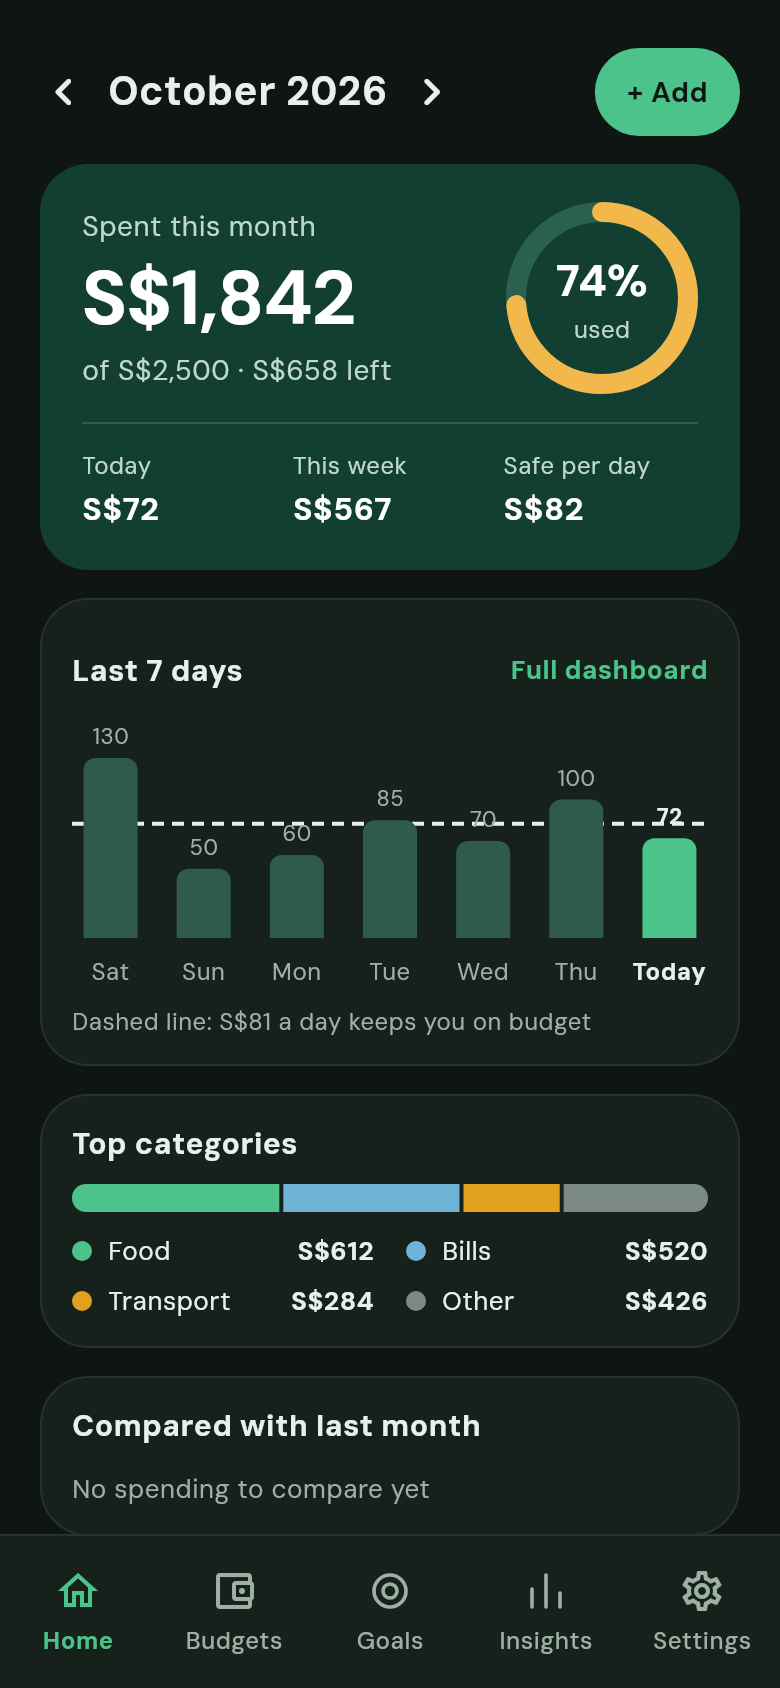
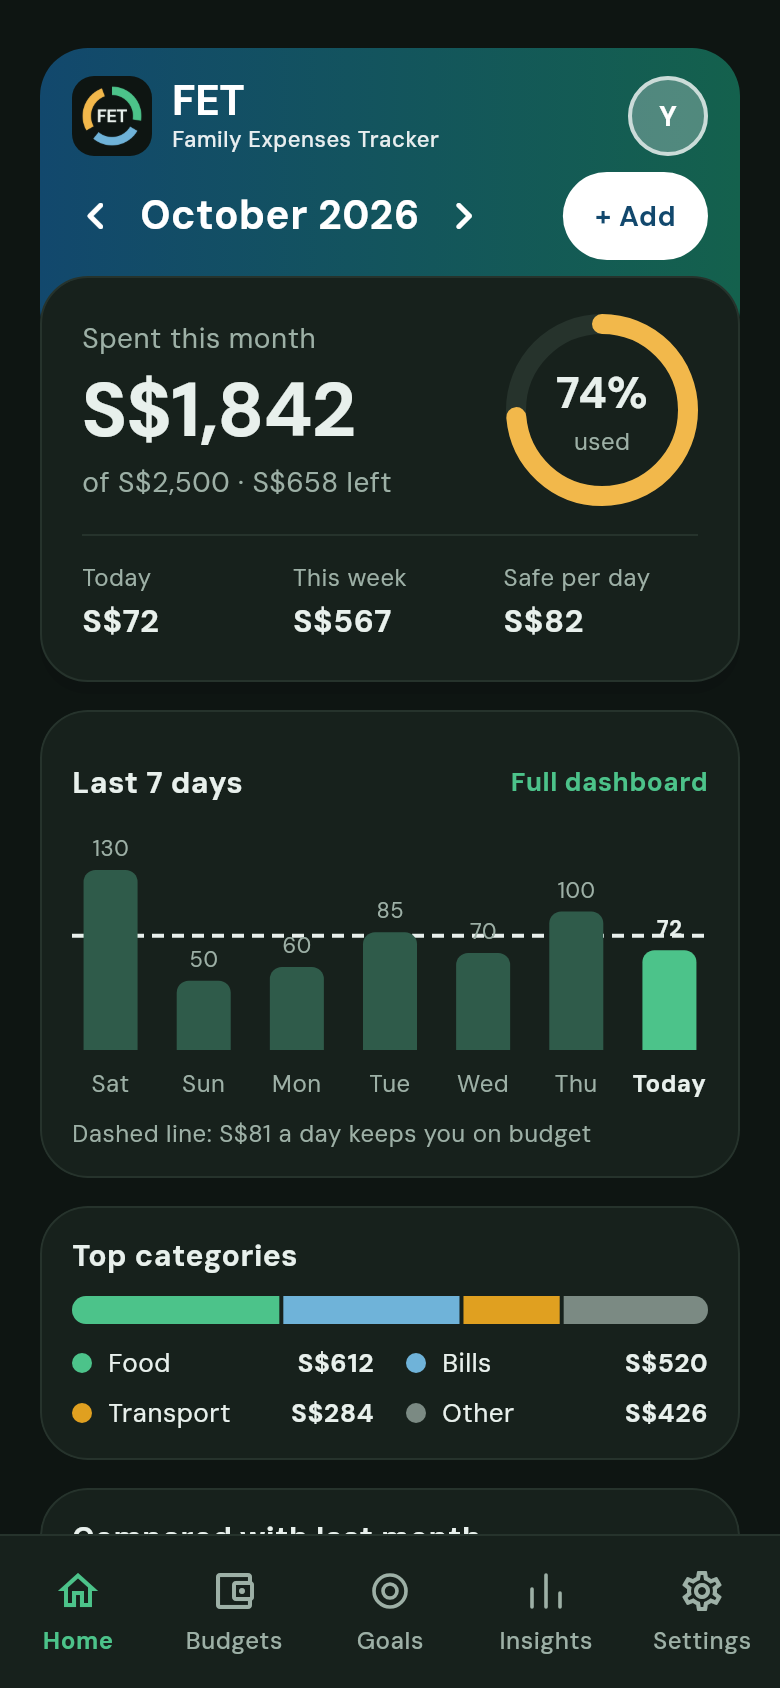
Gradient Home header is the default, with the overview card overlapping the band
Claude-Session: https://claude.ai/code/session_017RLUmD1WxyVaECNigSd7p4

diff --git a/lib/features/home/widgets/gradient_home_header.dart b/lib/features/home/widgets/gradient_home_header.dart
@@ -13,6 +13,9 @@ import '../../../core/theme/header_gradient.dart';
 import '../../family/member_providers.dart';
 import 'home_header.dart';
 
+/// How far the overview card reaches up into the gradient band.
+const double kHeaderOverlap = 40;
+
 /// The Home header with a gradient: the logo and name on the left, the signed-in person on the
 /// right, and the month switch and Add button beneath, all on the theme's gradient.
 class GradientHomeHeader extends ConsumerWidget {
@@ -60,7 +63,7 @@ class GradientHomeHeader extends ConsumerWidget {
       label: '$kAppName, $name',
       child: Container(
         key: const ValueKey('gradient-header'),
-        padding: const EdgeInsets.fromLTRB(16, 14, 16, 8),
+        padding: const EdgeInsets.fromLTRB(16, 14, 16, 8 + kHeaderOverlap),
         decoration: BoxDecoration(
           gradient: LinearGradient(
             begin: Alignment.centerLeft,
@@ -112,20 +115,24 @@ class GradientHomeHeader extends ConsumerWidget {
                   ),
                 ),
                 const SizedBox(width: 10),
-                Flexible(
-                  child: Text(
-                    name,
-                    key: const ValueKey('header-person'),
-                    maxLines: 1,
-                    overflow: TextOverflow.ellipsis,
-                    style: const TextStyle(
-                      fontSize: 15,
-                      fontWeight: FontWeight.w500,
-                      color: Colors.white,
+                // On your own the name is just "You": the picture says it, and the full app name
+                // gets the room.
+                if (name != 'You') ...[
+                  Flexible(
+                    child: Text(
+                      name,
+                      key: const ValueKey('header-person'),
+                      maxLines: 1,
+                      overflow: TextOverflow.ellipsis,
+                      style: const TextStyle(
+                        fontSize: 15,
+                        fontWeight: FontWeight.w500,
+                        color: Colors.white,
+                      ),
                     ),
                   ),
-                ),
-                const SizedBox(width: 8),
+                  const SizedBox(width: 8),
+                ],
                 ExcludeSemantics(
                   child: Container(
                     width: 40,
@@ -164,6 +171,42 @@ class GradientHomeHeader extends ConsumerWidget {
             ),
           ],
         ),
+      ),
+    );
+  }
+}
+
+/// Under the gradient band the overview is a light card with a soft shadow, as in the proposal.
+/// The card keeps all its content; only its colours change.
+class OverviewOnGradient extends StatelessWidget {
+  const OverviewOnGradient({super.key, required this.child});
+
+  final Widget child;
+
+  @override
+  Widget build(BuildContext context) {
+    final t = context.tokens;
+    final themed = t.copyWith(
+      hero: t.surface,
+      heroBorder: t.border,
+      heroText: t.text,
+      heroMuted: t.muted,
+      heroTrack: t.border,
+    );
+    return DecoratedBox(
+      decoration: BoxDecoration(
+        borderRadius: BorderRadius.circular(AppRadii.card),
+        boxShadow: [
+          BoxShadow(
+            color: Colors.black.withValues(alpha: 0.08),
+            blurRadius: 16,
+            offset: const Offset(0, 6),
+          ),
+        ],
+      ),
+      child: Theme(
+        data: Theme.of(context).copyWith(extensions: [themed]),
+        child: child,
       ),
     );
   }

diff --git a/lib/features/home/home_screen.dart b/lib/features/home/home_screen.dart
@@ -22,6 +22,7 @@ import 'home_providers.dart';
 import 'widgets/bill_goal_cards.dart';
 import 'widgets/categories_card.dart';
 import 'widgets/category_cards.dart';
+import '../../core/widgets/overlap_bottom.dart';
 import 'widgets/gradient_home_header.dart';
 import 'widgets/hero_card.dart';
 import 'widgets/personal_hero.dart';
@@ -58,29 +59,38 @@ class HomeScreen extends ConsumerWidget {
         : daysInMonth(month);
     final monthShort = DateFormat('MMM', 'en_US').format(month);
 
+    final gradientHeader =
+        ref.watch(appearanceProvider).homeHeader == HomeHeaderStyle.gradient;
+    final cardStyle = ref.watch(personalLookProvider).card;
+
     return DashboardLayout(
-      header: (context, mode) =>
-          ref.watch(appearanceProvider).homeHeader == HomeHeaderStyle.gradient
-          ? GradientHomeHeader(
-              month: month,
-              onPrevious: months.previous,
-              onNext: months.next,
-              onAdd: permissions.canWriteExpenses
-                  ? () => context.push('/add')
-                  : null,
-              onSelectDestination: goTo,
-              mode: mode,
-            )
-          : HomeHeader(
-              month: month,
-              onPrevious: months.previous,
-              onNext: months.next,
-              onAdd: permissions.canWriteExpenses
-                  ? () => context.push('/add')
-                  : null,
-              onSelectDestination: goTo,
-              mode: mode,
-            ),
+      header: (context, mode) {
+        VoidCallback? add = permissions.canWriteExpenses
+            ? () => context.push('/add')
+            : null;
+        if (!gradientHeader) {
+          return HomeHeader(
+            month: month,
+            onPrevious: months.previous,
+            onNext: months.next,
+            onAdd: add,
+            onSelectDestination: goTo,
+            mode: mode,
+          );
+        }
+        // The overview card below reaches up into the band (the gap between them is 14 or 16).
+        return OverlapBottom(
+          amount: kHeaderOverlap + (mode == DashboardMode.stacked ? 14 : 16),
+          child: GradientHomeHeader(
+            month: month,
+            onPrevious: months.previous,
+            onNext: months.next,
+            onAdd: add,
+            onSelectDestination: goTo,
+            mode: mode,
+          ),
+        );
+      },
       // Swipe the card sideways to change month: left for the next, right for the previous.
       hero: (context, mode) => GestureDetector(
         key: const ValueKey('hero-swipe'),
@@ -92,8 +102,12 @@ class HomeScreen extends ConsumerWidget {
           if (v > 300) months.previous();
         },
         child: PersonalHero(
-          style: ref.watch(personalLookProvider).card,
-          child: HeroCard(summary: summary, money: money),
+          style: cardStyle,
+          child: gradientHeader && !cardStyle.active
+              ? OverviewOnGradient(
+                  child: HeroCard(summary: summary, money: money),
+                )
+              : HeroCard(summary: summary, money: money),
         ),
       ),
       trend: (context, mode) => switch (mode) {

diff --git a/lib/core/widgets/overlap_bottom.dart b/lib/core/widgets/overlap_bottom.dart
@@ -1,0 +1,61 @@
+import 'package:flutter/rendering.dart';
+import 'package:flutter/widgets.dart';
+
+/// Lays its child out in full but reports a height [amount] smaller, so whatever comes next in a
+/// column is drawn over the child's bottom edge. Used to let the Home overview card overlap the
+/// gradient header. Taps on the overlapped strip go to what is drawn over it.
+class OverlapBottom extends SingleChildRenderObjectWidget {
+  const OverlapBottom({super.key, required this.amount, super.child});
+
+  final double amount;
+
+  @override
+  RenderObject createRenderObject(BuildContext context) =>
+      _RenderOverlapBottom(amount);
+
+  @override
+  void updateRenderObject(BuildContext context, RenderObject renderObject) {
+    (renderObject as _RenderOverlapBottom).amount = amount;
+  }
+}
+
+class _RenderOverlapBottom extends RenderShiftedBox {
+  _RenderOverlapBottom(this._amount) : super(null);
+
+  double _amount;
+  set amount(double v) {
+    if (v == _amount) return;
+    _amount = v;
+    markNeedsLayout();
+  }
+
+  @override
+  void performLayout() {
+    final c = child;
+    if (c == null) {
+      size = constraints.smallest;
+      return;
+    }
+    c.layout(constraints, parentUsesSize: true);
+    (c.parentData! as BoxParentData).offset = Offset.zero;
+    final h = (c.size.height - _amount).clamp(0.0, double.infinity);
+    size = constraints.constrain(Size(c.size.width, h));
+  }
+
+  @override
+  double computeMinIntrinsicHeight(double width) =>
+      ((child?.getMinIntrinsicHeight(width) ?? 0) - _amount).clamp(0, 1e9);
+  @override
+  double computeMaxIntrinsicHeight(double width) =>
+      ((child?.getMaxIntrinsicHeight(width) ?? 0) - _amount).clamp(0, 1e9);
+
+  @override
+  Size computeDryLayout(BoxConstraints constraints) {
+    final c = child;
+    if (c == null) return constraints.smallest;
+    final s = c.getDryLayout(constraints);
+    return constraints.constrain(
+      Size(s.width, (s.height - _amount).clamp(0.0, double.infinity)),
+    );
+  }
+}

diff --git a/tests/features/header_and_presets_test.dart b/tests/features/header_and_presets_test.dart
@@ -45,10 +45,40 @@ void main() {
   });
 
   group('the gradient Home header', () {
-    testWidgets('is off by default', (tester) async {
+    testWidgets('is the default look of Home', (tester) async {
       await pumpApp(tester, size: const Size(390, 844));
-      expect(key('gradient-header'), findsNothing);
+      expect(key('gradient-header'), findsOneWidget);
     });
+
+    testWidgets('Classic brings back the plain month row', (tester) async {
+      await pumpApp(
+        tester,
+        size: const Size(390, 844),
+        prefs: {'appearance.homeHeader': 'classic'},
+      );
+      expect(key('gradient-header'), findsNothing);
+      expect(find.text('Spent this month'), findsOneWidget);
+    });
+
+    testWidgets(
+      'the overview card overlaps the band and stays tappable and swipeable',
+      (tester) async {
+        await pumpApp(tester, size: const Size(390, 844));
+        final band = tester.getRect(key('gradient-header'));
+        final card = tester.getRect(key('hero-swipe'));
+        expect(
+          card.top,
+          lessThan(band.bottom),
+          reason: 'the card reaches into the band',
+        );
+        expect(
+          card.top,
+          greaterThan(band.top + 60),
+          reason: 'but not over the logo row',
+        );
+        expect(tester.takeException(), isNull);
+      },
+    );
 
     testWidgets('shows the logo, name and person when chosen', (tester) async {
       await pumpApp(
@@ -59,7 +89,11 @@ void main() {
       expect(key('gradient-header'), findsOneWidget);
       expect(find.text('FET'), findsOneWidget);
       expect(find.text('Family Expenses Tracker'), findsOneWidget);
-      expect(key('header-person'), findsOneWidget);
+      expect(
+        find.text('You'),
+        findsNothing,
+        reason: 'alone, the picture says it',
+      );
       expect(find.text('+ Add'), findsOneWidget);
       expect(tester.takeException(), isNull);
     });

diff --git a/lib/core/theme/appearance_provider.dart b/lib/core/theme/appearance_provider.dart
@@ -47,7 +47,7 @@ class AppearanceController extends Notifier<AppearanceSettings> {
       homeHeader: _enumByName(
         HomeHeaderStyle.values,
         _prefs.getString(_kHomeHeader),
-        HomeHeaderStyle.classic,
+        HomeHeaderStyle.gradient,
       ),
     );
   }

diff --git a/lib/core/theme/appearance_settings.dart b/lib/core/theme/appearance_settings.dart
@@ -45,7 +45,7 @@ class AppearanceSettings {
     this.largerText = false,
     this.colorBlindCharts = false,
     this.currencyCode = 'SGD',
-    this.homeHeader = HomeHeaderStyle.classic,
+    this.homeHeader = HomeHeaderStyle.gradient,
   });
 
   final AppearanceMode mode;

diff --git a/CHANGELOG.md b/CHANGELOG.md
@@ -2,6 +2,7 @@
 
 ## Fixes after Phase 8
 
+- The gradient Home header is now the default look, with the overview as a light card lifted over the band (Appearance → Home header → Classic brings back the old one). On your own the header shows just your picture, so the full app name has room.
 - Releases are numbered: each push to main publishes the next `v0.0.1-devN` (dev1, dev2, ...) and keeps the earlier ones, instead of replacing one "latest" release. The app version is 0.0.1. Change `BASE_VERSION` in the workflow to start the next version.
 - Duplicates: importing now asks. Rows that look like expenses you already have (same day, same amount, about the same description) are listed in a dialog: "Skip duplicates" (the default) or "Import them anyway", and kept rows are marked "Possible duplicate" in the table. When another person's entries arrive (sheet or server) and two people have written down what looks like the same expense, the app asks "Is this a duplicate?" with both entries: "Same, remove one" (removes the newer one you are allowed to remove, with Undo), "Different, keep both" (not asked again) or "Ask me later". Two identical purchases by the same person are never flagged.
 - Smaller downloads: the Windows zip is packed at maximum compression and without debug symbols, the Linux .deb uses xz, the Linux archive is .tar.xz, the macOS dmg uses LZMA (ULMO). APK files are already compressed (they are zip files), so they are made smaller by building per processor type and removing debug symbols instead.
